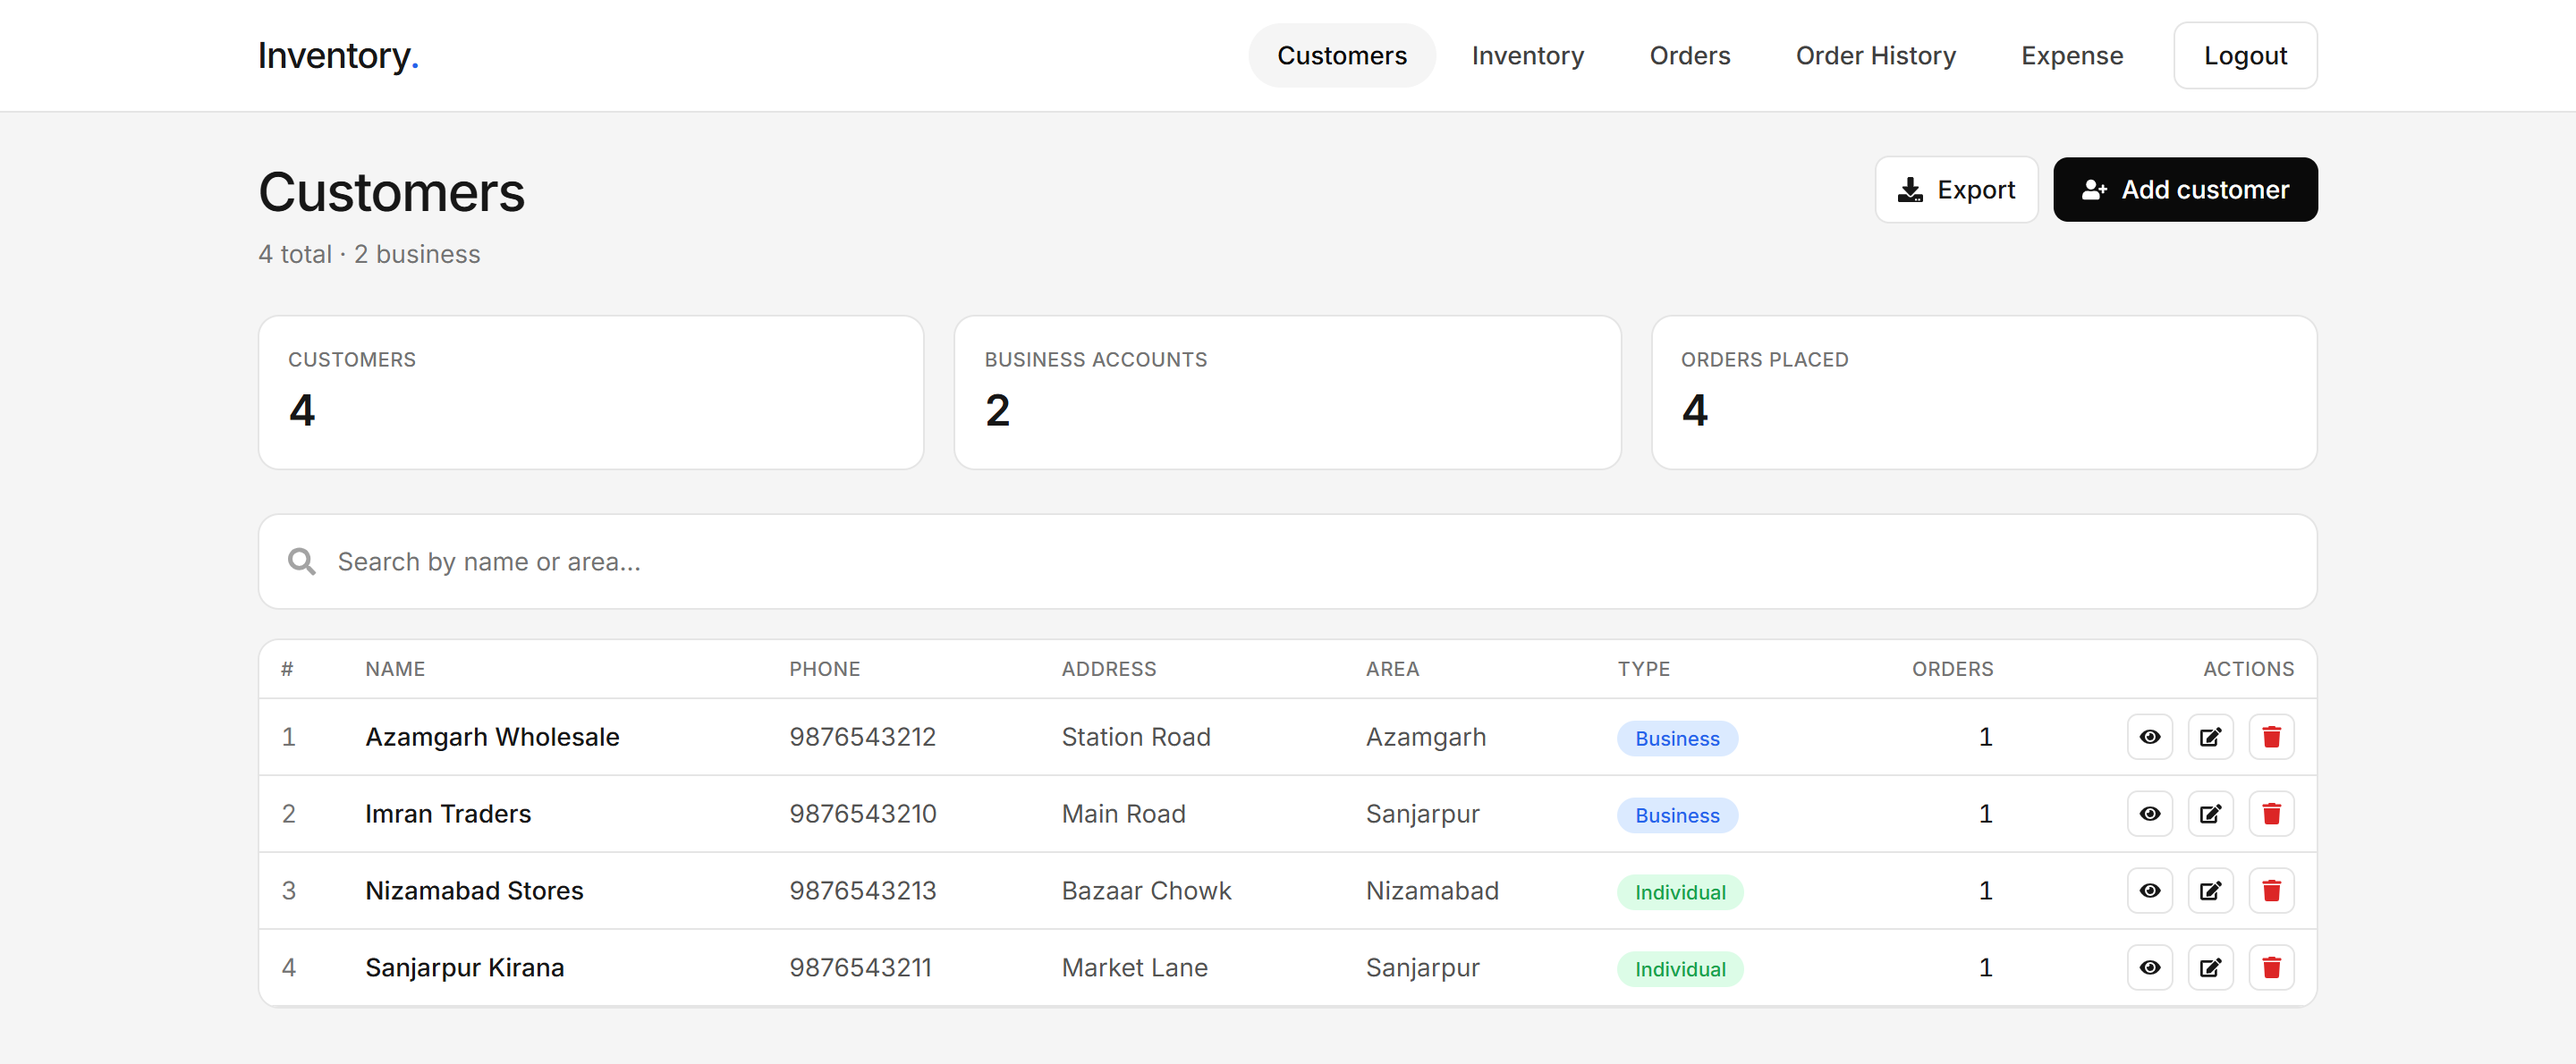
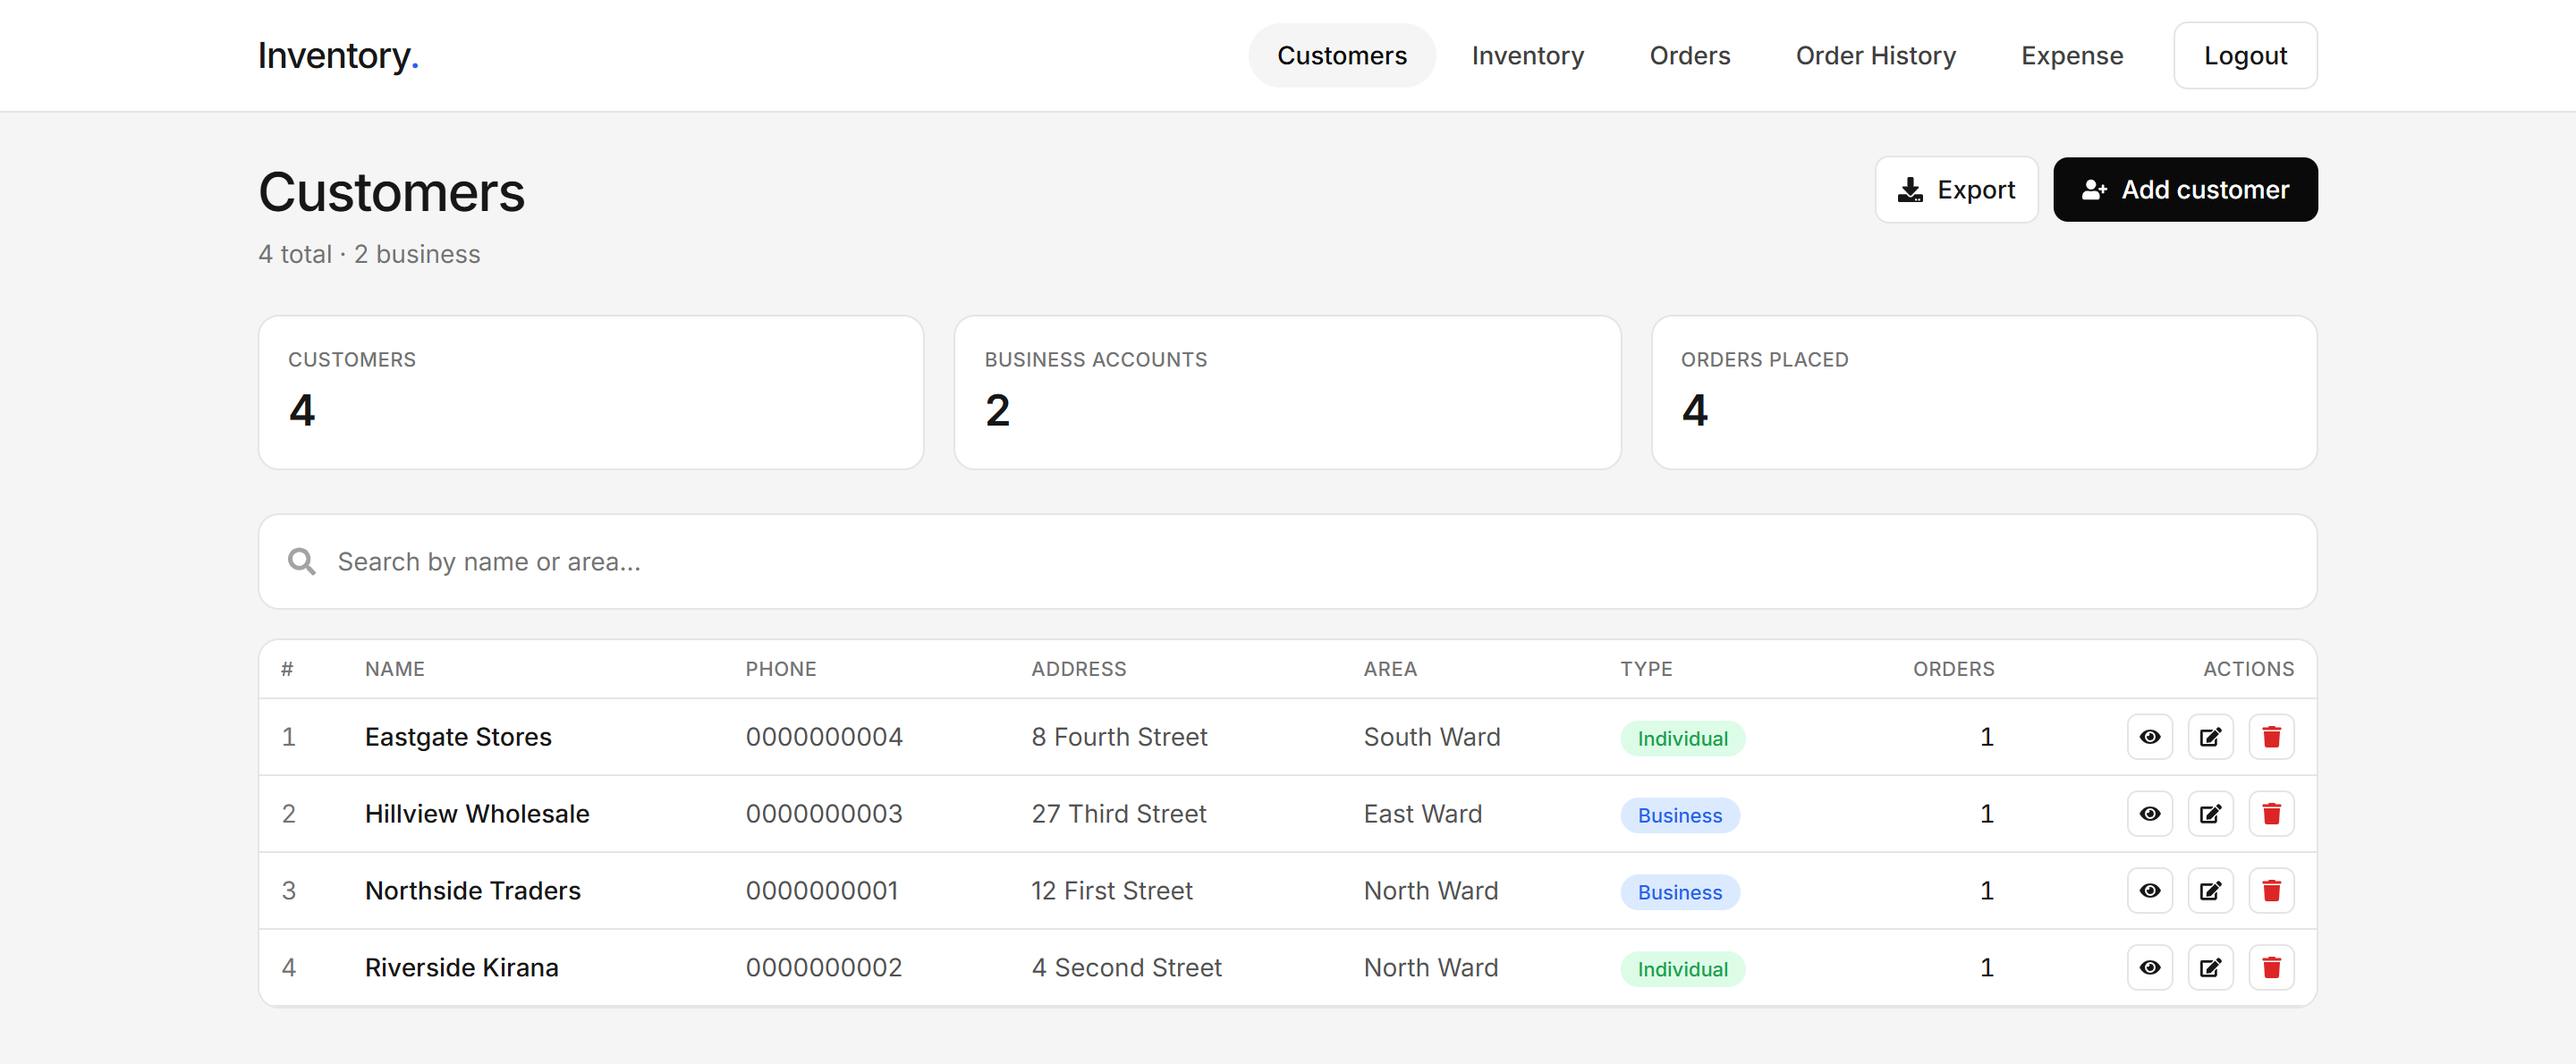
Remove business identity from source and regenerate screenshots
The invoice letterhead hard-coded a real company name, address, phone and
email, and the demo fixtures used real trading names and place names. Both are
now generic.

The letterhead moves to VITE_COMPANY_* environment variables so a deployment
supplies its own details and the repo carries none. Optional fields default to
blank and are dropped from the rendered line rather than printed as a dangling
separator, in the PDF header, the two PDF footers and the on-screen preview.

Demo fixtures now use invented names (Northside Traders, Supplier One, North
Ward) and 00000000NN placeholder phone numbers.

Screenshots are recaptured against the scrubbed data. They also now pass
fullPage so the clip can extend past the viewport - the previous dashboard
image was cut off at 900px and lost the monthly revenue table.

diff --git a/src/lib/demoData.js b/src/lib/demoData.js
@@ -1,5 +1,6 @@
 // Dev-only sample data so the UI can be reviewed without a live Firestore.
 // Enabled with VITE_DEMO_DATA=true; never used when the flag is off.
+// Everything here is invented — no real customer, supplier or location.
 export const DEMO_MODE = import.meta.env.VITE_DEMO_DATA === "true";
 
 const day = (d) => new Date(2026, 8, d).toISOString();
@@ -7,25 +8,25 @@ const paidOn = (d) => ({ toDate: () => new Date(2026, 8, d) });
 
 export const demoOrders = [
   {
-    id: "o1", customer: "c1", customerName: "Imran Traders", date: day(2),
+    id: "o1", customer: "c1", customerName: "Northside Traders", date: day(2),
     total: 88000, amountPaid: 88000, amountUnpaid: 0, paymentStatus: "Paid",
     items: [{ productName: "Mustard Oil 5L", quantity: 100, price: 880 }],
     paymentRecords: [{ paymentDate: paidOn(2), amountPaid: 88000 }],
   },
   {
-    id: "o2", customer: "c2", customerName: "Sanjarpur Kirana", date: day(6),
+    id: "o2", customer: "c2", customerName: "Riverside Kirana", date: day(6),
     total: 37000, amountPaid: 20000, amountUnpaid: 17000, paymentStatus: "Partially Paid",
     items: [{ productName: "Mustard Oil 1L", quantity: 200, price: 185 }],
     paymentRecords: [{ paymentDate: paidOn(8), amountPaid: 20000 }],
   },
   {
-    id: "o3", customer: "c3", customerName: "Azamgarh Wholesale", date: day(11),
+    id: "o3", customer: "c3", customerName: "Hillview Wholesale", date: day(11),
     total: 50400, amountPaid: 0, amountUnpaid: 50400, paymentStatus: "Unpaid",
     items: [{ productName: "Groundnut Oil 2L", quantity: 120, price: 420 }],
     paymentRecords: [],
   },
   {
-    id: "o4", customer: "c4", customerName: "Nizamabad Stores", date: day(19),
+    id: "o4", customer: "c4", customerName: "Eastgate Stores", date: day(19),
     total: 26400, amountPaid: 26400, amountUnpaid: 0, paymentStatus: "Paid",
     items: [
       { productName: "Refined Oil 1L", quantity: 90, price: 160 },
@@ -36,16 +37,16 @@ export const demoOrders = [
 ];
 
 export const demoCustomers = [
-  { id: "c1", name: "Imran Traders", phoneNumber: "9876543210", address: "Main Road", area: "Sanjarpur", customerType: "business" },
-  { id: "c2", name: "Sanjarpur Kirana", phoneNumber: "9876543211", address: "Market Lane", area: "Sanjarpur", customerType: "individual" },
-  { id: "c3", name: "Azamgarh Wholesale", phoneNumber: "9876543212", address: "Station Road", area: "Azamgarh", customerType: "business" },
-  { id: "c4", name: "Nizamabad Stores", phoneNumber: "9876543213", address: "Bazaar Chowk", area: "Nizamabad", customerType: "individual" },
+  { id: "c1", name: "Northside Traders", phoneNumber: "0000000001", address: "12 First Street", area: "North Ward", customerType: "business" },
+  { id: "c2", name: "Riverside Kirana", phoneNumber: "0000000002", address: "4 Second Street", area: "North Ward", customerType: "individual" },
+  { id: "c3", name: "Hillview Wholesale", phoneNumber: "0000000003", address: "27 Third Street", area: "East Ward", customerType: "business" },
+  { id: "c4", name: "Eastgate Stores", phoneNumber: "0000000004", address: "8 Fourth Street", area: "South Ward", customerType: "individual" },
 ];
 
 export const demoExpenses = [
-  { id: "e1", itemName: "Mustard seed (raw)", quantity: 400, totalAmount: 320000, paidAmount: 320000, unpaidAmount: 0, status: "Paid", supplier: "Krishi Mandi", date: day(3) },
-  { id: "e2", itemName: "Packaging bottles", quantity: 5000, totalAmount: 68000, paidAmount: 40000, unpaidAmount: 28000, status: "Partially Paid", supplier: "PlastPack Co", date: day(9) },
-  { id: "e3", itemName: "Transport", quantity: 12, totalAmount: 42000, paidAmount: 0, unpaidAmount: 42000, status: "Unpaid", supplier: "Sharma Logistics", date: day(16) },
+  { id: "e1", itemName: "Raw seed stock", quantity: 400, totalAmount: 320000, paidAmount: 320000, unpaidAmount: 0, status: "Paid", supplier: "Supplier One", date: day(3) },
+  { id: "e2", itemName: "Packaging bottles", quantity: 5000, totalAmount: 68000, paidAmount: 40000, unpaidAmount: 28000, status: "Partially Paid", supplier: "Supplier Two", date: day(9) },
+  { id: "e3", itemName: "Transport", quantity: 12, totalAmount: 42000, paidAmount: 0, unpaidAmount: 42000, status: "Unpaid", supplier: "Supplier Three", date: day(16) },
 ];
 
 export const demoDashboard = {
@@ -62,7 +63,7 @@ export const demoDashboard = {
     values: [385000, 412000, 468000, 441000, 523000, 610000, 578000, 664000, 794000],
   },
   areaDistribution: {
-    labels: ["Sanjarpur", "Azamgarh", "Mubarakpur", "Nizamabad", "Phulpur", "Lalganj"],
+    labels: ["North Ward", "East Ward", "South Ward", "West Ward", "Central", "Outer Ring"],
     values: [24, 19, 14, 11, 9, 6],
   },
   monthlySalesData: {

diff --git a/src/lib/pdf.js b/src/lib/pdf.js
@@ -6,13 +6,22 @@ import autoTableModule from "jspdf-autotable";
 const autoTable =
   typeof autoTableModule === "function" ? autoTableModule : autoTableModule.default;
 
+// Letterhead printed on every invoice and statement. Set these in .env so the
+// deployment carries its own details and the repo carries none.
+const env = import.meta.env;
+
 export const COMPANY = {
-  name: "STA Foods & Oils Co.",
-  tagline: "Hindola Mustard Oil",
-  address: "Sanjarpur, Azamgarh, Uttar Pradesh",
-  phone: "+91 99534 10116",
-  email: "stafoodsoils@gmail.com",
+  name: env.VITE_COMPANY_NAME || "Your Company Name",
+  tagline: env.VITE_COMPANY_TAGLINE || "",
+  address: env.VITE_COMPANY_ADDRESS || "Company address",
+  phone: env.VITE_COMPANY_PHONE || "",
+  email: env.VITE_COMPANY_EMAIL || "",
 };
+
+// Any of the optional letterhead fields may be blank, so drop the separator
+// rather than printing a dangling one.
+const letterheadLine = (...parts) => parts.filter(Boolean).join("  |  ");
+const dotJoin = (...parts) => parts.filter(Boolean).join("  ·  ");
 
 // jsPDF's built-in fonts are WinAnsi-encoded and have no glyph for U+20B9,
 // so the rupee sign would render as a blank box. "Rs." is the standard fallback.
@@ -96,8 +105,8 @@ const drawHeader = (doc, { title, subtitle }) => {
   doc.setFont("helvetica", "normal");
   doc.setFontSize(8.5);
   doc.setTextColor(200, 200, 200);
-  doc.text(`${COMPANY.tagline}  |  ${COMPANY.address}`, 14, 20);
-  doc.text(`${COMPANY.phone}  |  ${COMPANY.email}`, 14, 25);
+  doc.text(letterheadLine(COMPANY.tagline, COMPANY.address), 14, 20);
+  doc.text(letterheadLine(COMPANY.phone, COMPANY.email), 14, 25);
 
   doc.setTextColor(255, 255, 255);
   doc.setFont("helvetica", "bold");
@@ -322,7 +331,7 @@ export const buildInvoice = (order, { variant = "detailed", customer } = {}) => 
   doc.setTextColor(...FOG);
   doc.text(`For ${COMPANY.name}`, W - 14, y + 31, { align: "right" });
 
-  drawFooter(doc, `Thank you for your business  ·  ${COMPANY.email}`);
+  drawFooter(doc, dotJoin("Thank you for your business", COMPANY.email));
   return doc;
 };
 
@@ -435,7 +444,7 @@ export const buildStatement = ({ customer, entries, totals, period }) => {
   doc.setTextColor(...INK);
   doc.text(doc.splitTextToSize(amountInWords(outstanding), W - 28), 14, y + 5);
 
-  drawFooter(doc, `Statement for ${customer?.name ?? "customer"}  ·  ${COMPANY.phone}`);
+  drawFooter(doc, dotJoin(`Statement for ${customer?.name ?? "customer"}`, COMPANY.phone));
   return doc;
 };
 

diff --git a/src/components/Orders.jsx b/src/components/Orders.jsx
@@ -44,10 +44,10 @@ const InvoicePreview = ({ order, customer, variant }) => {
                 <div>
                     <p className="text-body-lg font-semibold">{COMPANY.name}</p>
                     <p className="text-caption text-silver mt-1">
-                        {COMPANY.tagline} · {COMPANY.address}
+                        {[COMPANY.tagline, COMPANY.address].filter(Boolean).join(" · ")}
                     </p>
                     <p className="text-caption text-silver">
-                        {COMPANY.phone} · {COMPANY.email}
+                        {[COMPANY.phone, COMPANY.email].filter(Boolean).join(" · ")}
                     </p>
                 </div>
                 <div className="text-right shrink-0">

diff --git a/README.md b/README.md
@@ -167,6 +167,19 @@ VITE_FIREBASE_MESSAGING_SENDER_ID=000000000000
 VITE_FIREBASE_APP_ID=1:000000000000:web:abcdef
 ```
 
+Invoices and statements print a letterhead. It is read from the environment so the repo
+carries no business details of its own — set these to your own, or leave them out for
+neutral placeholders. Blank optional fields are dropped rather than printed as empty
+separators:
+
+```ini
+VITE_COMPANY_NAME=Your Company Name
+VITE_COMPANY_TAGLINE=Optional strapline
+VITE_COMPANY_ADDRESS=Street, City, State
+VITE_COMPANY_PHONE=+00 00000 00000
+VITE_COMPANY_EMAIL=billing@example.com
+```
+
 Firestore uses four collections — `inventory`, `customers`, `orders` and `expenses` — each
 created on first write, so there is no schema to set up in advance.
 
